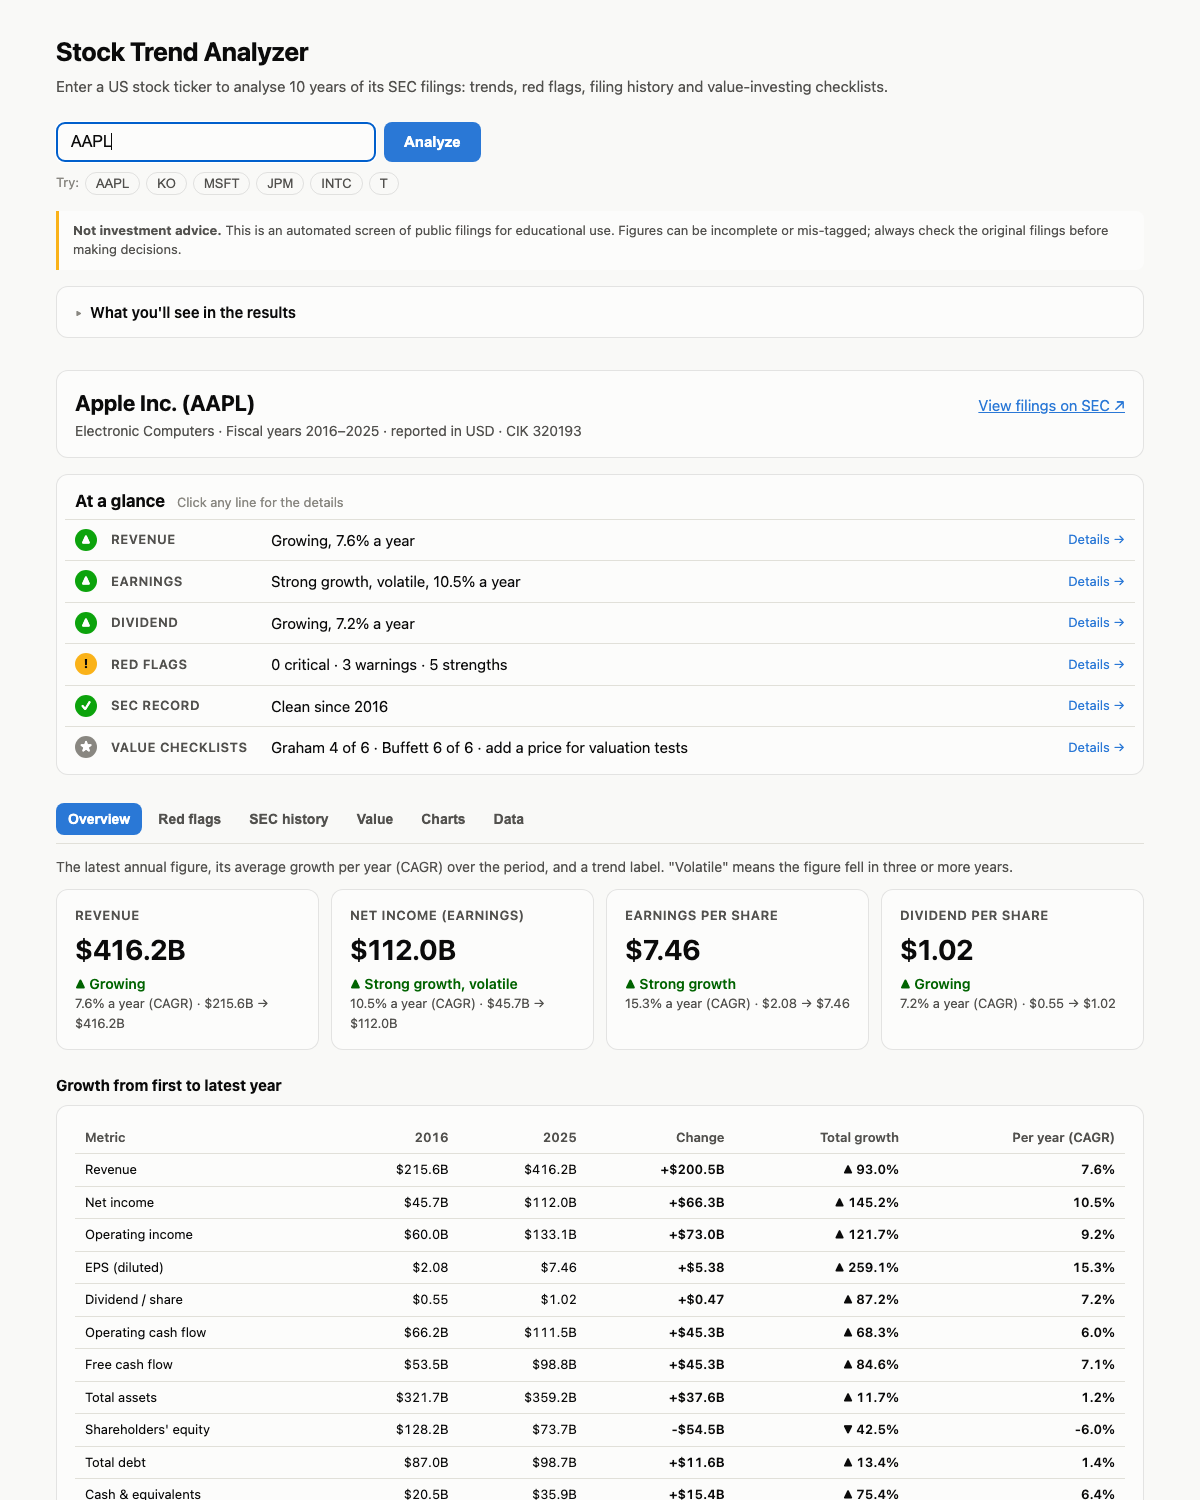
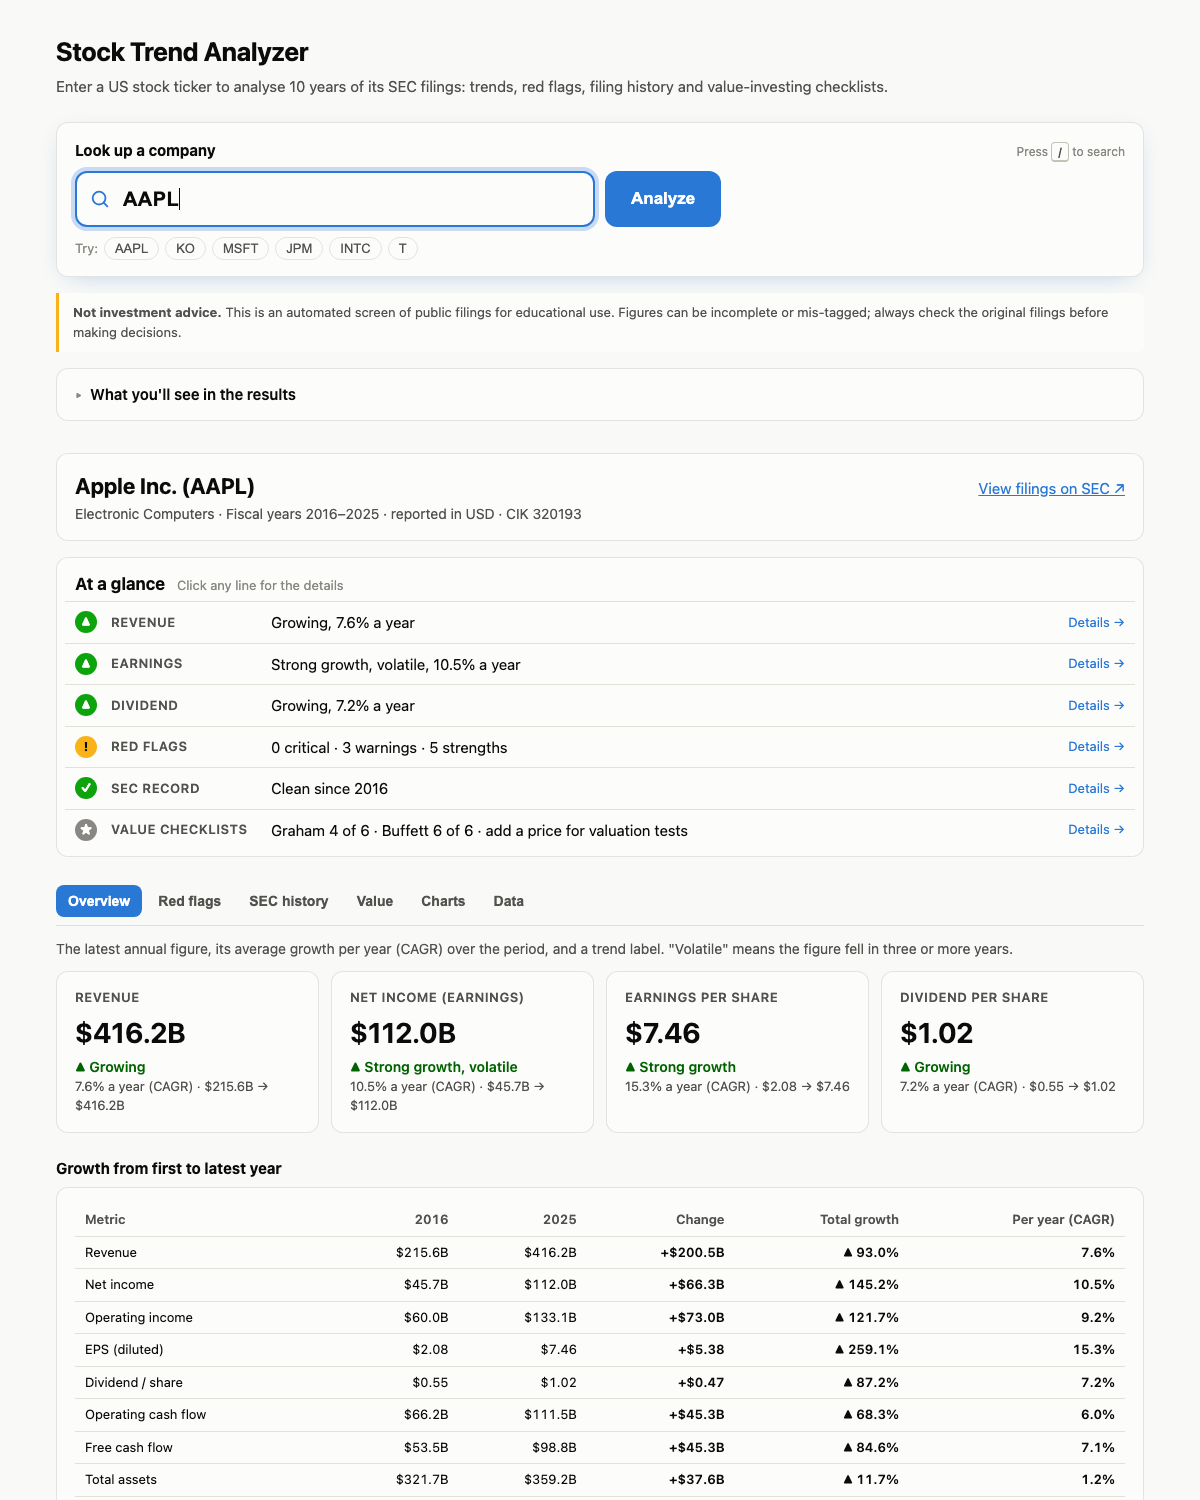
Make the ticker search stand out
- Highlighted search panel with a visible label, larger input with a
  search icon, accent border and focus glow, matching Analyze button
- Placeholder in normal case (only typed text is uppercased)
- Larger example-ticker buttons; '/' shortcut focuses the search box
- Tests for the label, autofocus and the shortcut; refreshed screenshots

diff --git a/public/index.html b/public/index.html
@@ -64,11 +64,30 @@
   h1 { font-size: 26px; margin: 0 0 4px; letter-spacing: -0.01em; }
   h2 { font-size: 18px; margin: 40px 0 12px; }
   .sub { color: var(--text-2); margin: 0 0 24px; }
-  form { display: flex; gap: 8px; flex-wrap: wrap; }
+  .search { margin: 4px 0 0; padding: 18px; border: 1px solid color-mix(in srgb, var(--accent) 35%, var(--border)); background: color-mix(in srgb, var(--accent) 6%, var(--surface)); box-shadow: 0 6px 24px -12px color-mix(in srgb, var(--accent) 45%, transparent); }
+  .search-label { display: flex; justify-content: space-between; align-items: baseline; gap: 8px; font-weight: 700; font-size: 15px; margin-bottom: 10px; }
+  .kbd-hint { color: var(--muted); font-weight: 400; font-size: 12px; }
+  kbd { font: 600 11px/1 system-ui, sans-serif; padding: 2px 6px; border: 1px solid var(--axis); border-bottom-width: 2px; border-radius: 4px; background: var(--surface); color: var(--text-2); }
+  form { display: flex; gap: 10px; }
+  .search-field { position: relative; flex: 1 1 auto; min-width: 0; max-width: 520px; }
+  .search-icon { position: absolute; left: 14px; top: 50%; width: 22px; height: 22px; transform: translateY(-50%); color: var(--accent); pointer-events: none; }
   input[type=text] {
-    flex: 1 1 220px; max-width: 320px; padding: 10px 14px; font-size: 16px;
-    border: 1px solid var(--axis); border-radius: 8px; background: var(--surface); color: var(--text-1);
-    text-transform: uppercase;
+    width: 100%; height: 56px; padding: 0 16px 0 46px; font-size: 20px; font-weight: 600; letter-spacing: .02em;
+    border: 2px solid var(--accent); border-radius: 12px; background: var(--surface); color: var(--text-1);
+    transition: box-shadow .15s;
+  }
+  input[type=text]:not(:placeholder-shown) { text-transform: uppercase; }
+  input[type=text]::placeholder { color: var(--muted); font-weight: 400; letter-spacing: 0; }
+  input[type=text]:focus { outline: none; box-shadow: 0 0 0 4px color-mix(in srgb, var(--accent) 25%, transparent); }
+  #go { height: 56px; padding: 0 26px; font-size: 17px; border-radius: 12px; }
+  .chips { display: flex; gap: 8px; flex-wrap: wrap; margin-top: 12px; font-size: 13px; color: var(--muted); align-items: center; }
+  .chip { background: var(--surface); color: var(--text-1); border: 1px solid var(--border); padding: 5px 12px; font-weight: 600; font-size: 13px; border-radius: 999px; }
+  .chip:hover { border-color: var(--accent); color: var(--accent); }
+  @media (max-width: 600px) {
+    .search { padding: 14px; }
+    .kbd-hint { display: none; }
+    input[type=text] { height: 52px; font-size: 18px; }
+    #go { height: 52px; padding: 0 18px; }
   }
   button {
     padding: 10px 20px; font-size: 15px; font-weight: 600; border: 0; border-radius: 8px;
@@ -214,7 +233,6 @@
     h1 { font-size: 22px; }
     .tile .value { font-size: 24px; }
     .chart-box { height: 220px; }
-    button { flex: 1 1 auto; }
   }
 </style>
 </head>
@@ -223,18 +241,24 @@
   <h1>Stock Trend Analyzer</h1>
   <p class="sub">Enter a US stock ticker to analyse 10 years of its SEC filings: trends, red flags, filing history and value-investing checklists.</p>
 
-  <form id="form">
-    <input id="ticker" type="text" placeholder="Ticker, e.g. AAPL" autocomplete="off" autofocus aria-label="Stock ticker">
-    <button id="go" type="submit">Analyze</button>
-  </form>
-  <div class="chips">Try:
-    <button class="chip" data-t="AAPL">AAPL</button>
-    <button class="chip" data-t="KO">KO</button>
-    <button class="chip" data-t="MSFT">MSFT</button>
-    <button class="chip" data-t="JPM">JPM</button>
-    <button class="chip" data-t="INTC">INTC</button>
-    <button class="chip" data-t="T">T</button>
-  </div>
+  <section class="search card" aria-label="Search">
+    <div class="search-label"><label for="ticker">Look up a company</label><span class="kbd-hint" aria-hidden="true">Press <kbd>/</kbd> to search</span></div>
+    <form id="form" role="search">
+      <div class="search-field">
+        <svg class="search-icon" viewBox="0 0 24 24" aria-hidden="true"><circle cx="11" cy="11" r="7" fill="none" stroke="currentColor" stroke-width="2"/><path d="M20 20l-4-4" stroke="currentColor" stroke-width="2" stroke-linecap="round"/></svg>
+        <input id="ticker" type="text" placeholder="Enter a ticker, e.g. AAPL" autocomplete="off" autocapitalize="characters" spellcheck="false" autofocus>
+      </div>
+      <button id="go" type="submit">Analyze</button>
+    </form>
+    <div class="chips">Try:
+      <button class="chip" type="button" data-t="AAPL">AAPL</button>
+      <button class="chip" type="button" data-t="KO">KO</button>
+      <button class="chip" type="button" data-t="MSFT">MSFT</button>
+      <button class="chip" type="button" data-t="JPM">JPM</button>
+      <button class="chip" type="button" data-t="INTC">INTC</button>
+      <button class="chip" type="button" data-t="T">T</button>
+    </div>
+  </section>
   <p class="disclaimer"><strong>Not investment advice.</strong> This is an automated screen of public filings for educational use. Figures can be incomplete or mis-tagged; always check the original filings before making decisions.</p>
 
   <details class="guide card" id="guide" open>

diff --git a/public/js/app.js b/public/js/app.js
@@ -152,6 +152,13 @@ function updateUrl() {
 
 // ---------- events ----------
 // a price belongs to one ticker, so clear it when the user looks up another
+// "/" jumps to the search box from anywhere (unless the user is typing in a field)
+document.addEventListener("keydown", (e) => {
+  if (e.key !== "/" || e.metaKey || e.ctrlKey || e.altKey || e.target.closest("input, textarea, select")) return;
+  e.preventDefault();
+  $("ticker").focus();
+  $("ticker").select();
+});
 $("form").addEventListener("submit", (e) => { e.preventDefault(); $("price").value = ""; run($("ticker").value); });
 document.querySelectorAll(".chip[data-t]").forEach((b) => b.addEventListener("click", () => { $("price").value = ""; run(b.dataset.t); }));
 matchMedia("(prefers-color-scheme: dark)").addEventListener("change", () => {

diff --git a/tests/e2e/test_ui.py b/tests/e2e/test_ui.py
@@ -305,3 +305,27 @@ def test_guide_cards_open_their_tab_once_results_are_shown(page, app_url, open_t
     page.click("#guide summary")
     page.locator(".guide-item", has_text="Value").click()
     expect(page.locator("#panel-value")).to_be_visible()
+
+
+# ---------- search box ----------
+
+def test_search_box_has_a_visible_label_and_works_by_label(page, app_url):
+    page.goto(app_url)
+    box = page.get_by_label("Look up a company")
+    expect(box).to_be_focused()                      # ready to type on arrival
+    expect(box).to_have_attribute("placeholder", "Enter a ticker, e.g. AAPL")
+    box.fill("ko")
+    box.press("Enter")
+    expect(page.locator("#coName")).to_have_text("COCA COLA CO (KO)")
+
+
+def test_slash_jumps_to_search_but_not_while_typing_elsewhere(open_ticker):
+    page = open_ticker("KO")
+    open_tab(page, "value")
+    page.fill("#price", "68")
+    page.locator("#price").press("/")               # typing in another field: no jump
+    expect(page.locator("#price")).to_be_focused()
+    page.locator("body").click(position={"x": 5, "y": 5})
+    page.keyboard.press("/")
+    expect(page.locator("#ticker")).to_be_focused()
+    assert page.evaluate("document.getElementById('ticker').selectionEnd") == 2  # existing text selected, ready to replace

diff --git a/README.md b/README.md
@@ -49,7 +49,7 @@ API responses are cached on Vercel's CDN for a day (`s-maxage=86400`), so repeat
 
 ## Tests
 
-175 automated tests run on every push (GitHub Actions). They never call SEC: they use trimmed real filings saved in `tests/fixtures/`, so they're fast, offline and repeatable.
+177 automated tests run on every push (GitHub Actions). They never call SEC: they use trimmed real filings saved in `tests/fixtures/`, so they're fast, offline and repeatable.
 
 | Layer | What it covers |
 |---|---|
@@ -57,7 +57,7 @@ API responses are cached on Vercel's CDN for a day (`s-maxage=86400`), so repeat
 | **Regression** (`tests/test_regression.py`, 42 tests) | Real Apple, Coca-Cola, Intel, JPMorgan and Super Micro filings. Figures are pinned to values cross-checked against published financials for fiscal 2021–2025. |
 | **HTTP** (`tests/test_server.py`, 19 tests) | Local server and Vercel function give identical responses. Source files can't be downloaded. Bad input is rejected. |
 | **JavaScript unit** (`tests/js/`, 36 tests) | The browser-side logic, run in Node with no dependencies: formatting, CAGR and trend labels, every red-flag rule, the Graham/Buffett checklists and value estimate, the growth table and filing-history views |
-| **End-to-end** (`tests/e2e/`, 32 tests) | Playwright drives the real page in Chromium: the results guide, the at-a-glance card and tabs (including keyboard navigation and links to a tab), search, charts, red flags, filing-history filters, price-based valuation, bank handling, errors, disclaimer, phone layout, and no JavaScript errors. |
+| **End-to-end** (`tests/e2e/`, 34 tests) | Playwright drives the real page in Chromium: the results guide, the at-a-glance card and tabs (including keyboard navigation and links to a tab), search, charts, red flags, filing-history filters, price-based valuation, bank handling, errors, disclaimer, phone layout, and no JavaScript errors. |
 
 ```bash
 python3 -m venv .venv
